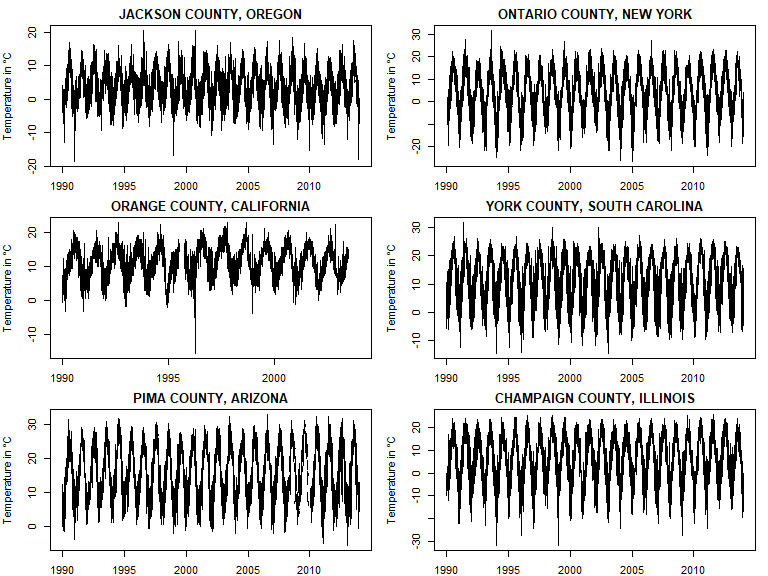
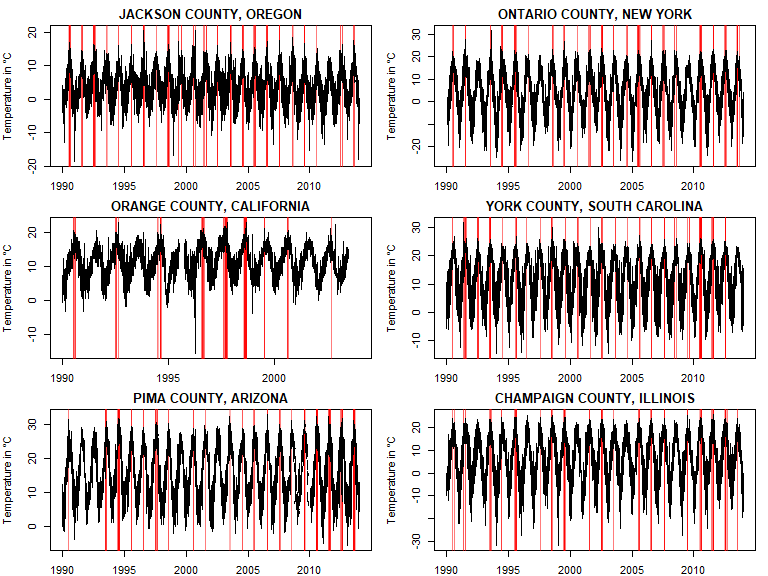
Plot

diff --git a/README.md b/README.md
@@ -1,6 +1,5 @@
-    ## Warning: Paket 'data.table' wurde unter R Version 4.1.1 erstellt
-
-# Daily Weather Data
+In my master thesis I want to explore the causal effect of extreme heat
+events on fatal car accidents.
 
 Using data provided by the Daily Global Historical Climatology Network
 (Menne et al. 2012), I identify extreme heat events in the historical
